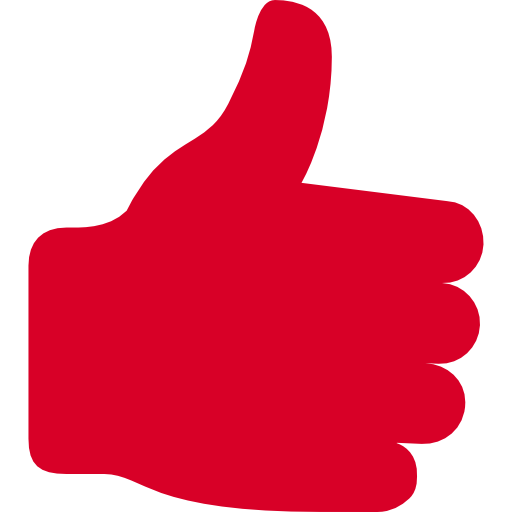
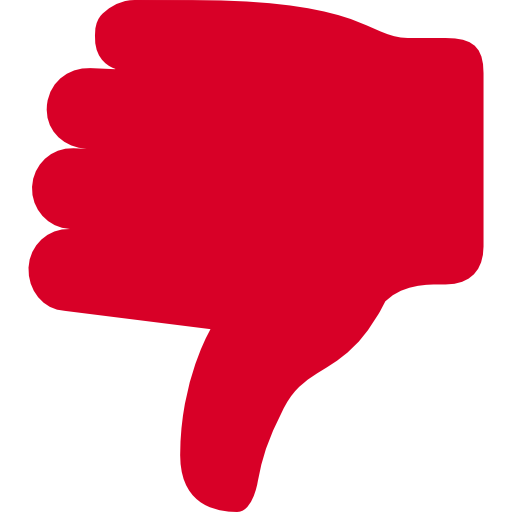
Edit thumbs down image Verdict label style changes with its value accordingly.

diff --git a/src/app/module-detail/module-detail.component.html b/src/app/module-detail/module-detail.component.html
@@ -3,8 +3,8 @@
         <h2 class="module-code">{{module.code}}</h2>
         <h2 class="module-name">{{module.modName}}</h2>
         <div class="row verdict-container center-align">
-                <h3 class=" verdict-label">{{module.percentageRecommend}}%</h3>
-                <img class="verdict-image responsive-img" src="../../assets/images/thumbs-up.png">          
+                <h3 class=" verdict-label" [ngClass]="module.percentageRecommend < 50 ? 'red-text' : 'green-text'">{{module.percentageRecommend}}%</h3>
+                <img class="verdict-image responsive-img" [ngClass]="module.percentageRecommend < 50 ? 'thumbs-down-image' : 'thumbs-up-image'">          
         </div>
         <div class="row ratings-bar">
             <div materialize="tooltip" class="tooltipped ratings-bar-recommend" [attr.data-tooltip]="module.percentageRecommend + '% recommended'" data-position="bottom" data-delay="30" data-tooltip=" recommended!" [ngStyle]="{'width.%': module.percentageRecommend}"></div> <!-- Dynamically change the numbers for this width-->

diff --git a/src/app/module-detail/module-detail.component.css b/src/app/module-detail/module-detail.component.css
@@ -31,6 +31,14 @@
     height: 2.7em;
 }
 
+.thumbs-up-image {
+    content: url("../../assets/images/thumbs-up.png");
+}
+
+.thumbs-down-image {
+    content: url("../../assets/images/thumbs-down.png");
+}
+
 .ratings-bar {
     display: block;
     margin: auto;
